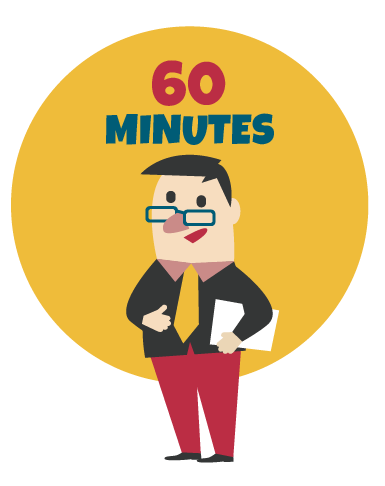
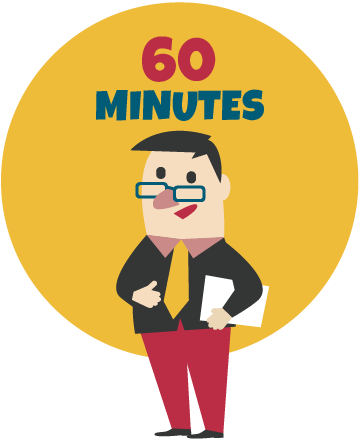
Format illustrations are now more aligned. Small tweaks

Changed region(s): [[0.0, 0.0, 1.0, 0.9977], [0.6722, 0.5869, 0.7028, 0.6163]]

diff --git a/frontend/content/speakers.html b/frontend/content/speakers.html
@@ -87,17 +87,17 @@
 		<h1>Format and duration</h1>
 		<p>You should pick a suitable format for your talk. Are you giving a quick introduction? Do you need more time to elaborate on your subject?  Or is your topic best taught hands-on? We offer three formats for you to present your material:</p>
 		<ul class="cf">
-			<li class="format">
+			<li class="format format-lightning">
 				<img src="/assets/img/illustrations/foredragstype_lyntale.png" /><br />
 				<h2>Lightning talks<br />(10 minutes)</h2>
 				<p>Are you presenting a great new idea or want to give the audience a teaser for a cool topic? If so, you should strongly consider the lightning talk format.  Note that the 10 minute limit is mandatory!</p>
 			</li>
-			<li class="format">
+			<li class="format format-presentation">
 				<img src="/assets/img/illustrations/foredragstype_foredrag.png" /><br />
 				<h2>Presentations<br />(60 minutes)</h2>
 				<p>Presentations at JavaZone have a length of 60 minutes. This lets you to elaborate on an topic and should leave you time to answer questions. We consider double slots for special topics, so if you feel you need more than 60 minutes, please contact us!</p>
 			</li>
-			<li class="format">
+			<li class="format format-workshop">
 				<img src="/assets/img/illustrations/foredragstype_workshop.png" /><br />
 				<h2>Workshops<br />(2, 4 or 8 hours)</h2>
 				<p>We will continue the popular workshop concept, both half-day and whole-day workshops on Tuesday September 8th and shorter 2-hour workshops during the conference. The format for the workshops is in-depth, hands-on and interactive.</p>
@@ -107,10 +107,14 @@
 </div>
 
 <div class="formats">
-	<div class="jumbotron section container-big cf">
-		<h1>Technical level</h1>
-		<p>The audience at JavaZone mostly consists of software developers and in general talks and workshops should be technical enough to include code (although that is not a requirement). Talks purely related to practices (agile etc.) are less likely to be accepted.</p>
-		<p>When you submit your talk, you should indicate whether there will be code in your slides or not. If you are going to perform live coding, please state that as well!</p>
+	<div class="section container cf">
+		<div class="sub-section cf">
+			<h1 class="section-header">Technical level</h1>
+			<div class="section-content">
+				<p>The audience at JavaZone mostly consists of software developers and in general talks and workshops should be technical enough to include code (although that is not a requirement). Talks purely related to practices (agile etc.) are less likely to be accepted.</p>
+				<p>When you submit your talk, you should indicate whether there will be code in your slides or not. If you are going to perform live coding, please state that as well!</p>
+			</div>
+		</div>
 	</div>
 </div>
 

diff --git a/frontend/content/assets/css/speakers.css b/frontend/content/assets/css/speakers.css
@@ -47,8 +47,33 @@
 }
 
 .speakers-page .formats img {
-	height: 250px;
 	width: auto;
+}
+
+.speakers-page .format-lightning img {
+	height: 240px;
+}
+
+.speakers-page .format-lightning h2 {
+	position: relative;
+	top: 10px;
+}
+
+.speakers-page .format-lightning p {
+	position: relative;
+	top: 10px;
+}
+
+.speakers-page .format-presentation img {
+	height: 250px;
+	position: relative;
+	top: -5px;
+}
+
+.speakers-page .format-workshop img {
+	height: 250px;
+	position: relative;
+	top: -10px;
 }
 
 .speakers-page .format {
@@ -64,13 +89,6 @@
 .speakers-page .deadlines ul:before {
 	display: none;
 }
-
-/*.speakers-page .deadline {
-	border: 1px solid #101010;
-	font-size: 16px;
-	margin: 10px;
-	padding: 17px;
-}*/
 
 .speakers-page .happening {
 	color: #a10035;
@@ -92,7 +110,7 @@
 
 .speakers-page .calendar {
 	position: relative;
-	margin: 10em auto;
+	margin: 7em auto 10em auto;
 }
 
 .speakers-page .calendar ul {

diff --git a/frontend/content/assets/css/base.css b/frontend/content/assets/css/base.css
@@ -5,7 +5,7 @@
     Main Text #394549
     Light Text #ccc
 
-    Burgunder:  a10035;
+    Burgunder:      ;
     Lyserød:    ff4f4c;
     Oransje:    ff8641;
     Gul:        fcaf17;
@@ -61,6 +61,8 @@ html {
     .container-big {
         margin-left: auto;
         margin-right: auto;
+        padding-left: 20px;
+        padding-right: 20px
     }
 }
 
